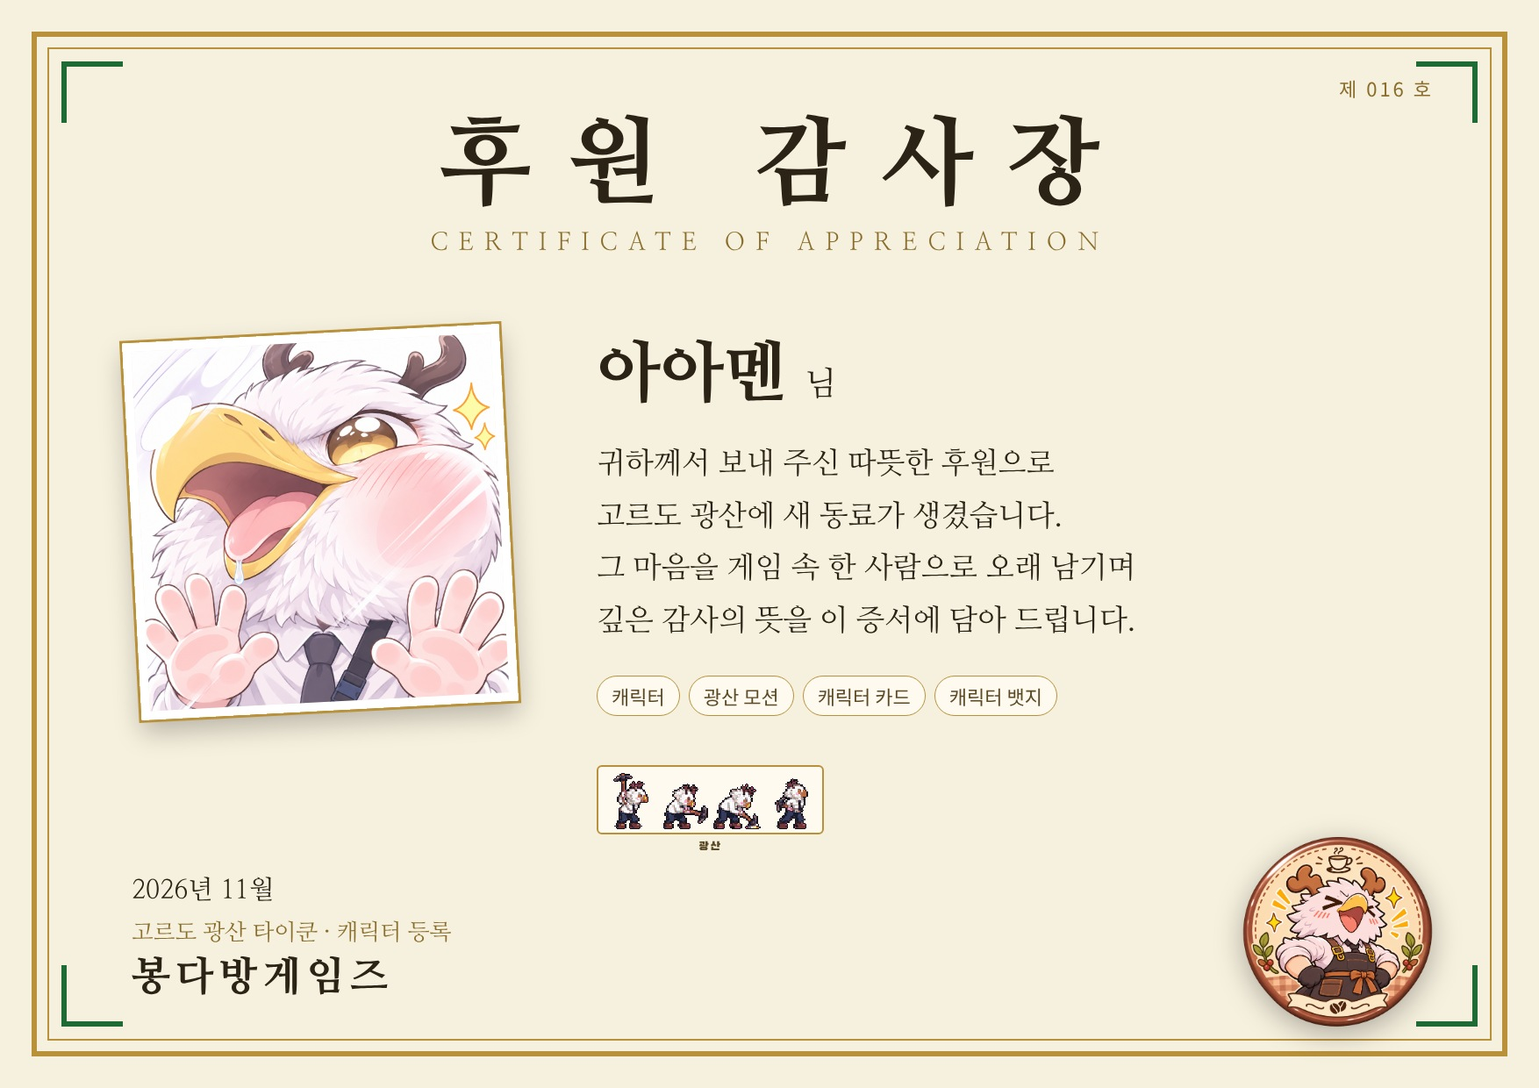
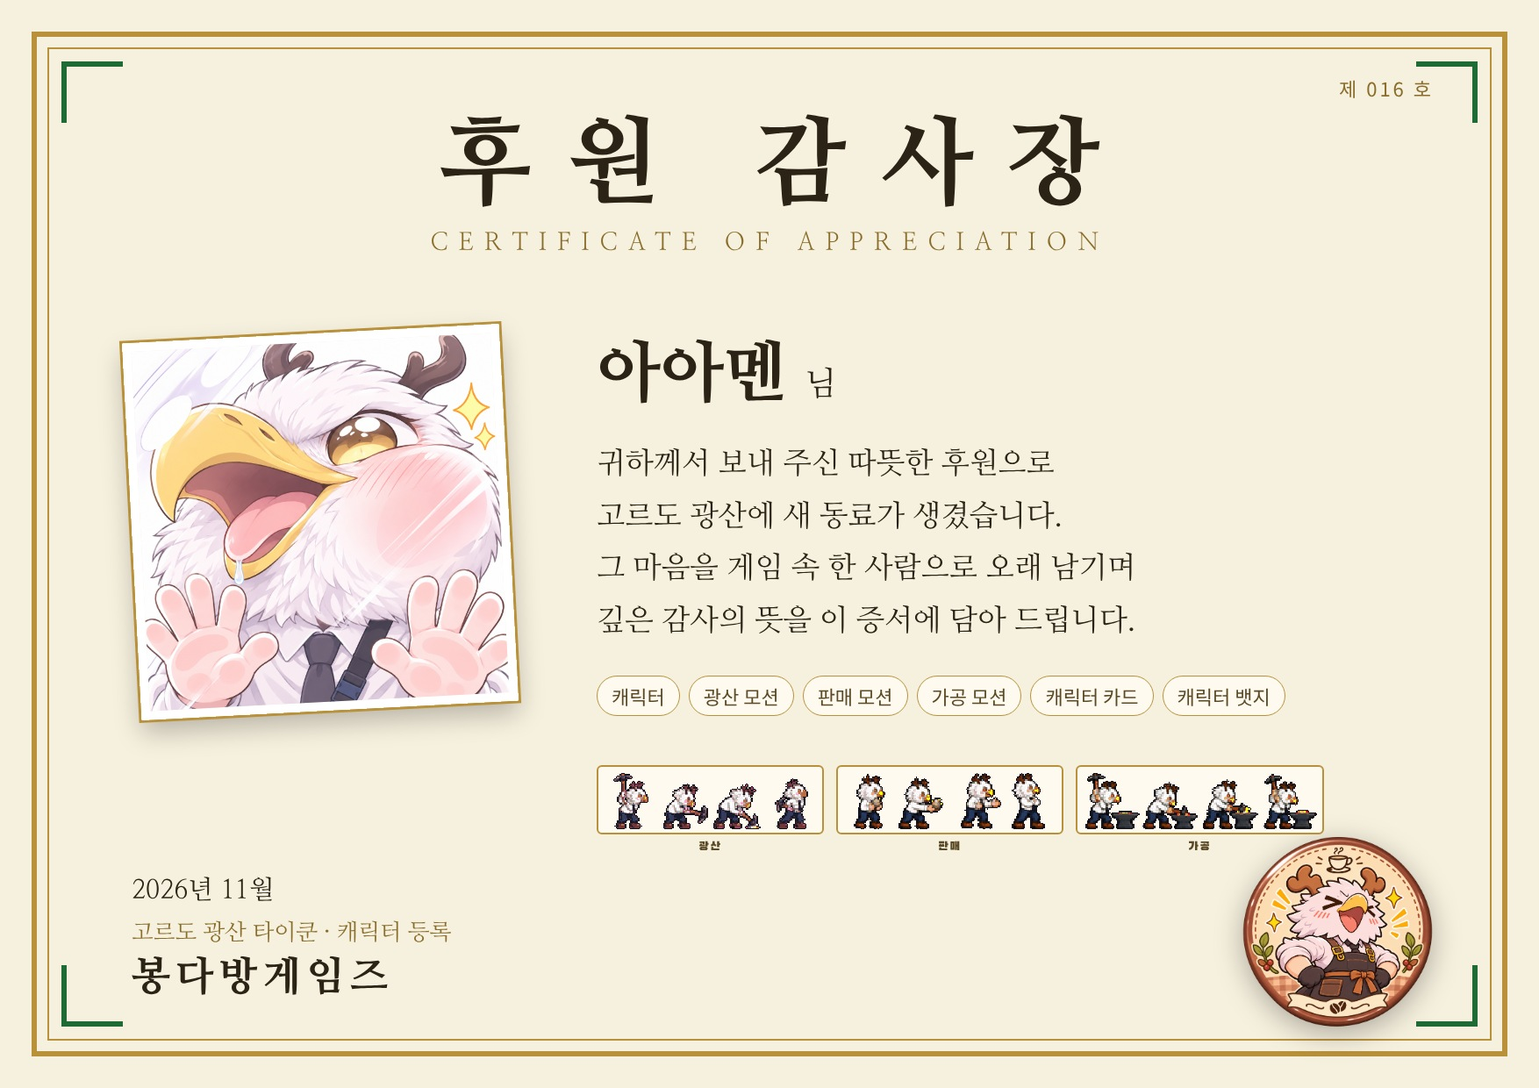
후원 안내: 이개모 2모습 예시, 아아멘 판매·가공 모션, 등급별 카드, 샘플 한 줄 / 자료실 아아멘 판매·가공 모션
Claude-Session: https://claude.ai/code/session_01N6H5VQBDFZPFAg9Lsr8QZh

Changed region(s): [[0.5542, 0.7048, 0.862, 0.7968], [0.5234, 0.6129, 0.7389, 0.6742], [0.7697, 0.6129, 0.8312, 0.6435]]

diff --git a/support/index.html b/support/index.html
@@ -65,6 +65,26 @@ h2{font-size:13px;letter-spacing:3px;color:var(--dim);font-weight:700;margin:34p
 .applyb{display:block;text-align:center;margin-bottom:12px;padding:16px;font-size:18px;font-weight:800;background:var(--acc);color:#0c1411}.applyb span{font-size:11px;padding:1px 6px;border:1px solid #0c1411;vertical-align:3px}.applyb small{display:block;font-weight:400;font-size:13px}
 footer{color:var(--dim);font-size:12px;text-align:center;padding:28px 0 40px}
 @media (max-width:640px){.games,.gift{grid-template-columns:1fr}.hero h1{font-size:25px}.opts{grid-template-columns:1fr 1fr}.op .h{flex-direction:column;gap:0}}
+.smp3{display:grid;grid-template-columns:.42fr 1.6fr 1.3fr;gap:8px;align-items:end}.smp3 a{padding:5px}.smp3 span{font-size:12px!important}
+@media (max-width:640px){.smp3{grid-template-columns:1fr 2.2fr;grid-template-areas:"ph pc" "ph ce"}.smp3 a:nth-child(1){grid-area:ph}.smp3 a:nth-child(2){grid-area:pc}.smp3 a:nth-child(3){grid-area:ce}.smp3 span{white-space:nowrap}}
+.tcard{background:var(--pan);border:1px solid var(--tileB);padding:16px 10px 10px;display:flex;flex-direction:column;align-items:center;gap:10px}.tcard>span{text-align:center;font-size:12.5px;color:var(--dim);font-weight:600}
+.acflip{--gc:#ff3df0;--glow:22px;width:min(300px,82vw);aspect-ratio:330/560;perspective:1400px;cursor:pointer}
+.accard{position:relative;width:100%;height:100%;transition:transform .8s cubic-bezier(.3,.7,.3,1);transform-style:preserve-3d}.acflip.on .accard{transform:rotateY(180deg)}
+.acside{position:absolute;inset:0;backface-visibility:hidden;-webkit-backface-visibility:hidden;border-radius:16px;overflow:hidden;border:6px solid var(--gc);box-shadow:0 0 0 2px rgba(255,255,255,.55) inset,0 14px 30px rgba(0,0,0,.55),0 0 var(--glow) var(--gc);background:#f4ead9;transition:border-color .3s,box-shadow .3s}
+.acfront img.art{width:100%;height:100%;object-fit:cover;display:block}
+.acfront .grade{position:absolute;left:9px;top:9px;width:52px;height:52px;border-radius:50%;display:grid;place-items:center;background:var(--gc);box-shadow:0 2px 8px rgba(0,0,0,.45)}
+.acflip.gSp .acfront .grade{background:conic-gradient(#ff3df0,#ffd93d,#3fd99a,#5cb6ff,#ff3df0)}
+.acfront .grade b{width:43px;height:43px;border-radius:50%;background:#241710;display:grid;place-items:center;font-size:18px;font-weight:900;color:#ffe38a}
+.acfront .st5{position:absolute;left:9px;top:66px;background:rgba(36,23,16,.88);border-radius:12px;padding:2px 8px;color:#ffd45a;font-size:13px;letter-spacing:1px}
+.acfront .hint{position:absolute;bottom:9px;left:50%;transform:translateX(-50%);background:rgba(36,23,16,.82);color:#fff1d6;font-size:11px;padding:4px 11px;border-radius:20px;white-space:nowrap}
+.acback{transform:rotateY(180deg);color:#3b2416;display:flex;flex-direction:column;background:repeating-linear-gradient(45deg,#f4ead9 0 14px,#efe2cd 14px 28px)}
+.acback .top{position:relative;height:41%;background:#fff;border-bottom:4px solid var(--gc);flex:none}.acback .top .f{width:100%;height:100%;object-fit:cover;object-position:50% 30%;display:block}
+.acback .top .bd{position:absolute;left:50%;bottom:-44px;transform:translateX(-50%);width:88px;height:88px;filter:drop-shadow(0 3px 6px rgba(0,0,0,.4))}
+.acback .bd2{flex:1;padding:50px 15px 12px;display:flex;flex-direction:column;gap:6px}.acback .nm{text-align:center;font-size:21px;font-weight:900}.acback .aff{text-align:center;font-size:11px;color:#7a5a43;margin-top:-3px}
+.acchips{display:flex;justify-content:center;gap:5px;margin:3px 0 1px}.acchips span{font-size:10.5px;font-weight:700;padding:2px 8px;border-radius:11px;background:#3b2416;color:#ffe2a0}.acchips .r{background:var(--gc);color:#fff;text-shadow:0 1px 2px rgba(0,0,0,.5)}
+.acst{display:grid;grid-template-columns:48px 1fr 26px;align-items:center;gap:5px;font-size:11px}.acst i{height:7px;border-radius:5px;background:#dcc9ae;overflow:hidden;position:relative}.acst i:after{content:"";position:absolute;inset:0;width:var(--v);background:linear-gradient(90deg,#b8742c,#e9a947);border-radius:5px}.acst em{font-style:normal;text-align:right;font-weight:700}
+.acq{margin-top:auto;font-size:11px;text-align:center;background:#fff8ec;border:1px dashed #b48a62;border-radius:9px;padding:6px}
+.gpick{display:flex;flex-wrap:wrap;justify-content:center;gap:6px}.gpick button{font:inherit;font-size:13px;font-weight:800;width:46px;padding:6px 0;border-radius:8px;border:2px solid var(--c);background:#141a18;color:var(--c);cursor:pointer}.gpick button.on{background:var(--c);color:#111}
 </style>
 </head>
 <body>
@@ -82,20 +102,28 @@ footer{color:var(--dim);font-size:12px;text-align:center;padding:28px 0 40px}
 <div class="opts">
  <div class="op base cut"><div class="im"><img src="img/aamen_profile.webp" alt=""></div><div class="h"><b>캐릭터 추가</b><i>50만원</i></div><p>기본 항목이에요. 내 캐릭터 프로필 그림이 직원으로 들어가요.</p></div>
  <div class="op cut"><div class="im" style="font-size:40px;font-weight:800;color:var(--gold)">아아멘</div><div class="h"><b>이름 지정</b><i>+20만원</i></div><p>직원 이름이 내 이름으로 고정돼요.</p></div>
- <div class="op cut"><div class="im duo"><img src="../sponsors/shin/s/신재민_프로필.webp" alt=""><img src="../sponsors/shin/s/신재민_프로필2모습.webp" alt=""></div><div class="h"><b>프로필 2모습</b><i>+40만원</i></div><p>프로필을 누르면 두 번째 모습으로 바뀌어요.</p></div>
+ <div class="op cut"><div class="im duo"><img src="../sponsors/lgm/s/이개모_프로필.webp" alt=""><img src="../sponsors/lgm/s/이개모_프로필2모습.webp" alt=""></div><div class="h"><b>프로필 2모습</b><i>+40만원</i></div><p>프로필을 누르면 두 번째 모습으로 바뀌어요.</p></div>
  <div class="op cut"><div class="im px"><img src="img/aamen_mine.gif" alt=""></div><div class="h"><b>광산 모션</b><i>+30만원</i></div><p>광산에서 내 모습으로 곡괭이질해요.</p></div>
- <div class="op cut"><div class="im px"><img src="../sponsors/shin/신재민_판매모션.gif" alt=""></div><div class="h"><b>판매 모션</b><i>+30만원</i></div><p>판매 칸에서 내 모습으로 일해요.</p></div>
- <div class="op cut"><div class="im px"><img src="../sponsors/shin/신재민_가공모션.gif" alt=""></div><div class="h"><b>가공 모션</b><i>+30만원</i></div><p>가공 칸에서 내 모습으로 망치질해요.</p></div>
+ <div class="op cut"><div class="im px"><img src="img/aamen_sell.gif" alt=""></div><div class="h"><b>판매 모션</b><i>+30만원</i></div><p>판매 칸에서 내 모습으로 일해요.</p></div>
+ <div class="op cut"><div class="im px"><img src="img/aamen_forge.gif" alt=""></div><div class="h"><b>가공 모션</b><i>+30만원</i></div><p>가공 칸에서 내 모습으로 망치질해요.</p></div>
  <div class="op cut"><div class="im card"><img src="img/aamen_card.webp" alt=""></div><div class="h"><b>캐릭터 카드</b><i>+30만원</i></div><p>직원 창에서 볼 수 있는 수집 카드가 생겨요.</p><p class="cond">조건: 캐릭터 등록 + 이름 지정</p></div>
  <div class="op cut"><div class="im"><img src="img/aamen_badge.webp" alt=""></div><div class="h"><b>캐릭터 뱃지</b><i>+40만원</i></div><p>카드 뒷면에 들어가는 나만의 원형 뱃지예요.</p><p class="cond">조건: 캐릭터 등록 + 이름 지정 + 카드</p></div>
 </div>
-<div class="full cut"><b>💎 풀패키지</b><s>따로 사면 270만원</s><span class="pr">250만원</span><span class="sv">20만원 할인</span><p>위 8가지를 모두 한 번에. 예시 그림은 아아멘 캐릭터예요. 프로필 2모습·판매·가공 모션은 후원자 신재민 님 예시예요.</p></div>
+<div class="full cut"><b>💎 풀패키지</b><s>따로 사면 270만원</s><span class="pr">250만원</span><span class="sv">20만원 할인</span><p>위 8가지를 모두 한 번에. 예시 그림은 아아멘 캐릭터예요. 프로필 2모습은 이개모 님 예시예요.</p></div>
 
 <h2>풀패키지 샘플</h2>
 <div class="smp">
  <a class="cut" href="img/sample_card.webp" target="_blank" rel="noopener"><img src="img/sample_card.webp" alt="풀패키지 카드 앞뒷면 설명" loading="lazy"><span>캐릭터 카드 앞면·뒷면에 들어가는 것</span></a>
- <div class="smp2"><a class="cut" href="img/sample_phone.webp" target="_blank" rel="noopener"><img src="img/sample_phone.webp" alt="" loading="lazy"><span>폰 배경화면</span></a><a class="cut" href="img/sample_pc.webp" target="_blank" rel="noopener"><img src="img/sample_pc.webp" alt="" loading="lazy"><span>PC 배경화면</span></a></div>
- <a class="cut" href="img/sample_cert.webp" target="_blank" rel="noopener"><img src="img/sample_cert.webp" alt="" loading="lazy"><span>후원 감사장</span></a>
+ <div class="tcard cut">
+  <div class="acflip gSp" id="acCd" onclick="this.classList.toggle('on')"><div class="accard">
+   <div class="acside acfront"><img class="art" src="img/card_front.webp" alt="아아멘 카드 앞면"><div class="grade"><b id="gtx">S+</b></div><div class="st5">★★★★★</div><div class="hint">눌러서 뒤집기 ↻</div></div>
+   <div class="acside acback"><div class="top"><img class="f" src="img/card_face.webp" alt=""><img class="bd" src="img/card_badge.webp" alt=""></div><div class="bd2"><div class="nm">아아멘</div><div class="aff">광산 알바 · 후원자 · Lv.90</div><div class="acchips"><span class="r" id="gch">S+</span><span>★5</span><span>후원</span></div>
+    <div class="acst"><span>채광</span><i style="--v:84%"></i><em>84</em></div><div class="acst"><span>운전</span><i style="--v:72%"></i><em>72</em></div><div class="acst"><span>손기술</span><i style="--v:78%"></i><em>78</em></div><div class="acst"><span>체력</span><i style="--v:80%"></i><em>80</em></div><div class="acq">"아아~ 멘!"</div></div></div>
+  </div></div>
+  <div class="gpick" id="gpk"></div>
+  <span>등급 버튼을 누르면 그 등급의 카드 테두리로 바뀌어요 · 카드를 누르면 뒤집혀요 · 능력치는 예시</span>
+ </div>
+ <div class="smp3"><a class="cut" href="img/sample_phone.webp" target="_blank" rel="noopener"><img src="img/sample_phone.webp" alt="" loading="lazy"><span>폰 배경화면</span></a><a class="cut" href="img/sample_pc.webp" target="_blank" rel="noopener"><img src="img/sample_pc.webp" alt="" loading="lazy"><span>PC 배경화면</span></a><a class="cut" href="img/sample_cert.webp" target="_blank" rel="noopener"><img src="img/sample_cert.webp" alt="" loading="lazy"><span>후원 감사장</span></a></div>
 </div>
 <p style="color:var(--dim);font-size:13px;margin:8px 0 0">샘플은 아아멘 캐릭터예요. 배경색은 카드 그림 색에 맞춰 사람마다 달라요.</p>
 
@@ -130,5 +158,13 @@ footer{color:var(--dim);font-size:12px;text-align:center;padding:28px 0 40px}
 </div>
 </div>
 <footer>© 봉다방게임즈</footer>
+<script>
+(function(){var GR=['D','C','B','A','S','S+'],GC=['#9aa3a0','#5cb6ff','#4fd17a','#f2c14e','#ff5d73','#ff3df0'],GL=[0,0,0,8,14,22];
+var cd=document.getElementById('acCd'),pk=document.getElementById('gpk');if(!cd)return;
+function set(i){cd.style.setProperty('--gc',GC[i]);cd.style.setProperty('--glow',GL[i]+'px');cd.classList.toggle('gSp',i==5);
+document.getElementById('gtx').textContent=GR[i];document.getElementById('gch').textContent=GR[i];
+[].forEach.call(pk.children,function(b,j){b.classList.toggle('on',j==i)});}
+GR.forEach(function(g,i){var b=document.createElement('button');b.type='button';b.textContent=g;b.style.setProperty('--c',GC[i]);b.onclick=function(){set(i)};pk.appendChild(b)});set(5);})();
+</script>
 </body>
 </html>

diff --git a/sponsors/index.html b/sponsors/index.html
@@ -112,8 +112,8 @@ footer{color:var(--dim);font-size:12px;text-align:center;padding:28px 0 40px}
 <details class="more"><summary><span class="op">자료 펼치기 ▼</span><span class="cl">접기 ▲</span></summary><h3>기념 디자인</h3><div class="grid des"><figure class="wide"><a href="unk35/수리남_후원감사장.jpg" target="_blank" rel="noopener"><img src="unk35/s/수리남_후원감사장.webp" alt="수리남 후원 감사장" loading="lazy"></a><figcaption>후원 감사장</figcaption></figure></div><h3>원본 그림</h3><div class="grid org"><figure class=""><a href="unk35/수리남_프로필.png" target="_blank" rel="noopener"><img src="unk35/s/수리남_프로필.webp" alt="수리남 프로필" loading="lazy"></a><figcaption>프로필</figcaption></figure></div></details></section>
 <section class="sp cut" id="shin" data-n="신재민"><div class="sh"><img src="shin/s/신재민_프로필.webp" alt=""><div><b>신재민</b><span class="tag full">풀패키지</span><div class="chips"><span>캐릭터</span><span>이름 지정</span><span>프로필 2모습</span><span>광산 모션</span><span>판매 모션</span><span>가공 모션</span><span>캐릭터 카드</span><span>캐릭터 뱃지</span></div></div></div>
 <details class="more"><summary><span class="op">자료 펼치기 ▼</span><span class="cl">접기 ▲</span></summary><h3>기념 디자인</h3><div class="grid des"><figure class="tall"><a href="shin/신재민_폰배경화면.jpg" target="_blank" rel="noopener"><img src="shin/s/신재민_폰배경화면.webp" alt="신재민 폰 배경화면" loading="lazy"></a><figcaption>폰 배경화면</figcaption></figure><figure class="wide"><a href="shin/신재민_후원감사장.jpg" target="_blank" rel="noopener"><img src="shin/s/신재민_후원감사장.webp" alt="신재민 후원 감사장" loading="lazy"></a><figcaption>후원 감사장</figcaption></figure><figure class="wide"><a href="shin/신재민_PC배경화면.jpg" target="_blank" rel="noopener"><img src="shin/s/신재민_PC배경화면.webp" alt="신재민 PC 배경화면" loading="lazy"></a><figcaption>PC 배경화면</figcaption></figure></div><h3>원본 그림</h3><div class="grid org"><figure class=""><a href="shin/신재민_프로필.png" target="_blank" rel="noopener"><img src="shin/s/신재민_프로필.webp" alt="신재민 프로필" loading="lazy"></a><figcaption>프로필</figcaption></figure><figure class=""><a href="shin/신재민_프로필2모습.png" target="_blank" rel="noopener"><img src="shin/s/신재민_프로필2모습.webp" alt="신재민 프로필 2모습" loading="lazy"></a><figcaption>프로필 2모습</figcaption></figure><figure class="tall"><a href="shin/신재민_캐릭터카드.png" target="_blank" rel="noopener"><img src="shin/s/신재민_캐릭터카드.webp" alt="신재민 캐릭터 카드" loading="lazy"></a><figcaption>캐릭터 카드</figcaption></figure><figure class=""><a href="shin/신재민_캐릭터뱃지.png" target="_blank" rel="noopener"><img src="shin/s/신재민_캐릭터뱃지.webp" alt="신재민 캐릭터 뱃지" loading="lazy"></a><figcaption>캐릭터 뱃지</figcaption></figure><figure class="px"><a href="shin/신재민_광산모션.gif" target="_blank" rel="noopener"><img src="shin/신재민_광산모션.gif" alt="신재민 광산 모션" loading="lazy"></a><figcaption>광산 모션</figcaption></figure><figure class="px"><a href="shin/신재민_판매모션.gif" target="_blank" rel="noopener"><img src="shin/신재민_판매모션.gif" alt="신재민 판매 모션" loading="lazy"></a><figcaption>판매 모션</figcaption></figure><figure class="px"><a href="shin/신재민_가공모션.gif" target="_blank" rel="noopener"><img src="shin/신재민_가공모션.gif" alt="신재민 가공 모션" loading="lazy"></a><figcaption>가공 모션</figcaption></figure></div></details></section>
-<section class="sp cut" id="aamen" data-n="아아멘"><div class="sh"><img src="aamen/s/아아멘_프로필.webp" alt=""><div><b>아아멘</b><span class="tag reg">캐릭터 등록</span><div class="chips"><span>캐릭터</span><span>광산 모션</span><span>캐릭터 카드</span><span>캐릭터 뱃지</span></div></div></div>
-<details class="more"><summary><span class="op">자료 펼치기 ▼</span><span class="cl">접기 ▲</span></summary><h3>기념 디자인</h3><div class="grid des"><figure class="tall"><a href="aamen/아아멘_폰배경화면.jpg" target="_blank" rel="noopener"><img src="aamen/s/아아멘_폰배경화면.webp" alt="아아멘 폰 배경화면" loading="lazy"></a><figcaption>폰 배경화면</figcaption></figure><figure class="wide"><a href="aamen/아아멘_후원감사장.jpg" target="_blank" rel="noopener"><img src="aamen/s/아아멘_후원감사장.webp" alt="아아멘 후원 감사장" loading="lazy"></a><figcaption>후원 감사장</figcaption></figure></div><h3>원본 그림</h3><div class="grid org"><figure class=""><a href="aamen/아아멘_프로필.png" target="_blank" rel="noopener"><img src="aamen/s/아아멘_프로필.webp" alt="아아멘 프로필" loading="lazy"></a><figcaption>프로필</figcaption></figure><figure class="tall"><a href="aamen/아아멘_캐릭터카드.png" target="_blank" rel="noopener"><img src="aamen/s/아아멘_캐릭터카드.webp" alt="아아멘 캐릭터 카드" loading="lazy"></a><figcaption>캐릭터 카드</figcaption></figure><figure class=""><a href="aamen/아아멘_캐릭터뱃지.png" target="_blank" rel="noopener"><img src="aamen/s/아아멘_캐릭터뱃지.webp" alt="아아멘 캐릭터 뱃지" loading="lazy"></a><figcaption>캐릭터 뱃지</figcaption></figure><figure class="px"><a href="aamen/아아멘_광산모션.gif" target="_blank" rel="noopener"><img src="aamen/아아멘_광산모션.gif" alt="아아멘 광산 모션" loading="lazy"></a><figcaption>광산 모션</figcaption></figure></div></details></section>
+<section class="sp cut" id="aamen" data-n="아아멘"><div class="sh"><img src="aamen/s/아아멘_프로필.webp" alt=""><div><b>아아멘</b><span class="tag reg">캐릭터 등록</span><div class="chips"><span>캐릭터</span><span>광산 모션</span><span>판매 모션</span><span>가공 모션</span><span>캐릭터 카드</span><span>캐릭터 뱃지</span></div></div></div>
+<details class="more"><summary><span class="op">자료 펼치기 ▼</span><span class="cl">접기 ▲</span></summary><h3>기념 디자인</h3><div class="grid des"><figure class="wide"><a href="aamen/아아멘_후원감사장.jpg" target="_blank" rel="noopener"><img src="aamen/s/아아멘_후원감사장.webp" alt="아아멘 후원 감사장" loading="lazy"></a><figcaption>후원 감사장</figcaption></figure></div><h3>원본 그림</h3><div class="grid org"><figure class=""><a href="aamen/아아멘_프로필.png" target="_blank" rel="noopener"><img src="aamen/s/아아멘_프로필.webp" alt="아아멘 프로필" loading="lazy"></a><figcaption>프로필</figcaption></figure><figure class="tall"><a href="aamen/아아멘_캐릭터카드.png" target="_blank" rel="noopener"><img src="aamen/s/아아멘_캐릭터카드.webp" alt="아아멘 캐릭터 카드" loading="lazy"></a><figcaption>캐릭터 카드</figcaption></figure><figure class=""><a href="aamen/아아멘_캐릭터뱃지.png" target="_blank" rel="noopener"><img src="aamen/s/아아멘_캐릭터뱃지.webp" alt="아아멘 캐릭터 뱃지" loading="lazy"></a><figcaption>캐릭터 뱃지</figcaption></figure><figure class="px"><a href="aamen/아아멘_광산모션.gif" target="_blank" rel="noopener"><img src="aamen/아아멘_광산모션.gif" alt="아아멘 광산 모션" loading="lazy"></a><figcaption>광산 모션</figcaption></figure><figure class="px"><a href="aamen/아아멘_판매모션.gif" target="_blank" rel="noopener"><img src="aamen/아아멘_판매모션.gif" alt="아아멘 판매 모션" loading="lazy"></a><figcaption>판매 모션</figcaption></figure><figure class="px"><a href="aamen/아아멘_가공모션.gif" target="_blank" rel="noopener"><img src="aamen/아아멘_가공모션.gif" alt="아아멘 가공 모션" loading="lazy"></a><figcaption>가공 모션</figcaption></figure></div></details></section>
 <section class="sp cut" id="agy" data-n="안가연"><div class="sh"><img src="agy/s/안가연_프로필.webp" alt=""><div><b>안가연</b><span class="tag full">풀패키지</span><div class="chips"><span>캐릭터</span><span>이름 지정</span><span>프로필 2모습</span><span>광산 모션</span><span>판매 모션</span><span>가공 모션</span><span>캐릭터 카드</span><span>캐릭터 뱃지(준비 중)</span></div></div></div>
 <details class="more"><summary><span class="op">자료 펼치기 ▼</span><span class="cl">접기 ▲</span></summary><h3>기념 디자인</h3><div class="grid des"><figure class="tall"><a href="agy/안가연_폰배경화면.jpg" target="_blank" rel="noopener"><img src="agy/s/안가연_폰배경화면.webp" alt="안가연 폰 배경화면" loading="lazy"></a><figcaption>폰 배경화면</figcaption></figure><figure class="wide"><a href="agy/안가연_후원감사장.jpg" target="_blank" rel="noopener"><img src="agy/s/안가연_후원감사장.webp" alt="안가연 후원 감사장" loading="lazy"></a><figcaption>후원 감사장</figcaption></figure><figure class="wide"><a href="agy/안가연_PC배경화면.jpg" target="_blank" rel="noopener"><img src="agy/s/안가연_PC배경화면.webp" alt="안가연 PC 배경화면" loading="lazy"></a><figcaption>PC 배경화면</figcaption></figure></div><h3>원본 그림</h3><div class="grid org"><figure class=""><a href="agy/안가연_프로필.png" target="_blank" rel="noopener"><img src="agy/s/안가연_프로필.webp" alt="안가연 프로필" loading="lazy"></a><figcaption>프로필</figcaption></figure><figure class=""><a href="agy/안가연_프로필2모습.png" target="_blank" rel="noopener"><img src="agy/s/안가연_프로필2모습.webp" alt="안가연 프로필 2모습" loading="lazy"></a><figcaption>프로필 2모습</figcaption></figure><figure class="tall"><a href="agy/안가연_캐릭터카드.png" target="_blank" rel="noopener"><img src="agy/s/안가연_캐릭터카드.webp" alt="안가연 캐릭터 카드" loading="lazy"></a><figcaption>캐릭터 카드</figcaption></figure><figure class="wait"><div>준비 중</div><figcaption>캐릭터 뱃지</figcaption></figure><figure class="px"><a href="agy/안가연_광산모션.gif" target="_blank" rel="noopener"><img src="agy/안가연_광산모션.gif" alt="안가연 광산 모션" loading="lazy"></a><figcaption>광산 모션</figcaption></figure><figure class="px"><a href="agy/안가연_판매모션.gif" target="_blank" rel="noopener"><img src="agy/안가연_판매모션.gif" alt="안가연 판매 모션" loading="lazy"></a><figcaption>판매 모션</figcaption></figure><figure class="px"><a href="agy/안가연_가공모션.gif" target="_blank" rel="noopener"><img src="agy/안가연_가공모션.gif" alt="안가연 가공 모션" loading="lazy"></a><figcaption>가공 모션</figcaption></figure></div></details></section>
 <section class="sp cut" id="pqp" data-n="앵무새"><div class="sh"><img src="pqp/s/앵무새_프로필.webp" alt=""><div><b>앵무새</b><span class="tag reg">캐릭터 등록</span><div class="chips"><span>캐릭터</span><span>프로필 2모습</span><span>광산 모션</span></div></div></div>
